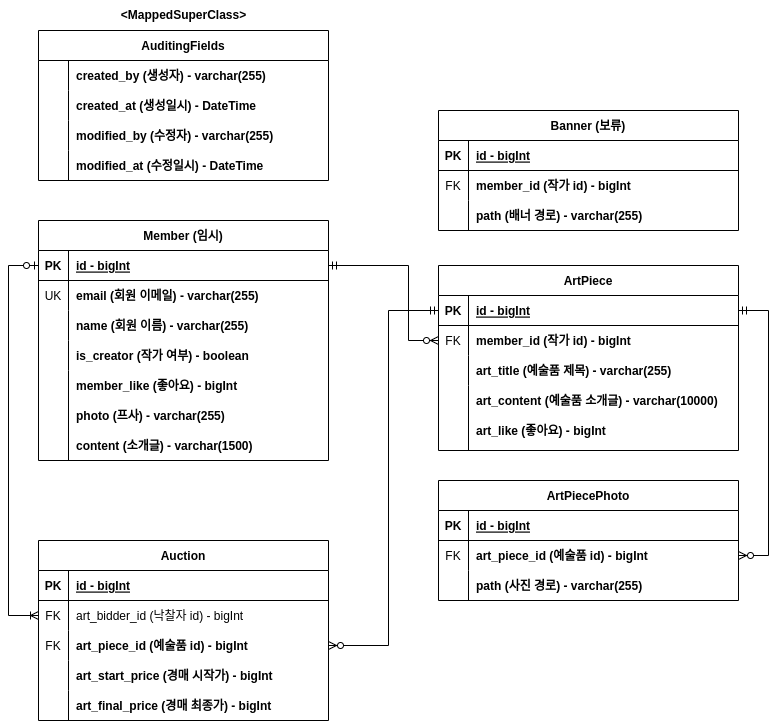
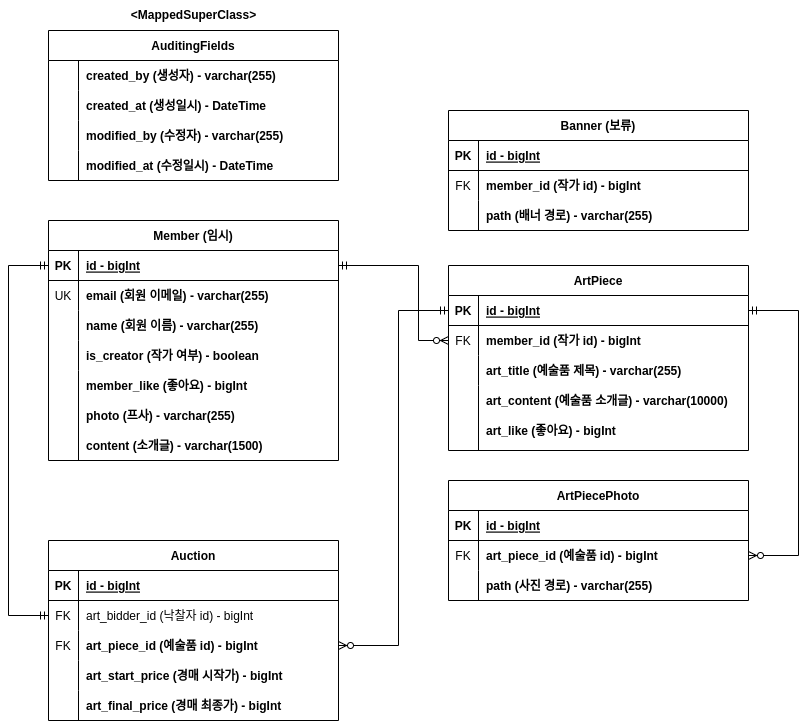
#1 - ERD 수정

diff --git a/src/main/java/com/artfolio/artfolio/domain/Auction.java b/src/main/java/com/artfolio/artfolio/domain/Auction.java
@@ -1,10 +1,7 @@
 package com.artfolio.artfolio.domain;
 
 import jakarta.persistence.*;
-import lombok.AccessLevel;
-import lombok.Builder;
-import lombok.Getter;
-import lombok.NoArgsConstructor;
+import lombok.*;
 
 @Getter
 @NoArgsConstructor(access = AccessLevel.PROTECTED)
@@ -19,7 +16,8 @@ public class Auction {
     @Column(nullable = false)
     private Long artFinalPrice;
 
-    @ManyToOne
+    @Setter
+    @OneToOne
     @JoinColumn(name = "art_bidder_id")
     private Member bidder;
 
@@ -27,10 +25,5 @@ public class Auction {
     public Auction(Long artStartPrice, Long artFinalPrice) {
         this.artStartPrice = artStartPrice;
         this.artFinalPrice = artFinalPrice;
-    }
-
-    public void bidSuccessful(Member bidder) {
-        bidder.getBids().add(this);
-        this.bidder = bidder;
     }
 }

diff --git a/src/main/java/com/artfolio/artfolio/domain/Member.java b/src/main/java/com/artfolio/artfolio/domain/Member.java
@@ -34,9 +34,6 @@ public class Member {
     @Column(length = 1500, nullable = false)
     private String content;
 
-    @OneToMany(mappedBy = "bidder")
-    private final Set<Auction> bids = new HashSet<>();
-
     @OneToMany(mappedBy = "creator")
     private final Set<ArtPiece> artPieces = new HashSet<>();
 
@@ -55,3 +52,6 @@ public class Member {
         artPiece.setCreator(this);
     }
 }
+
+// 멤버에서 그동안 진행한 경매 리스트를 보여주려면 1:N 구조를 가져야 함
+// 근데, 옥션 입장에서 낙찰자는 1명이니까 1:1임
